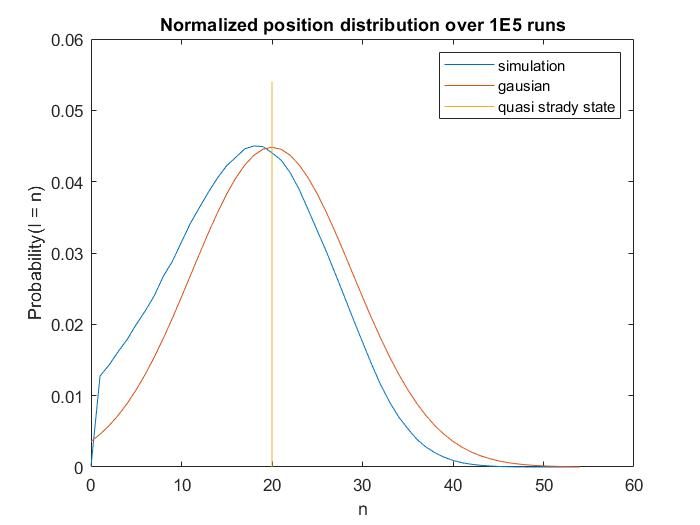
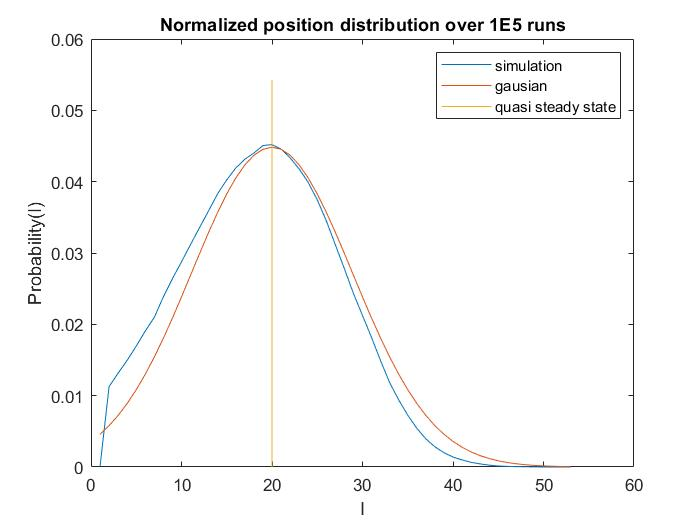
new figs

diff --git a/task31e.m b/task31e.m
@@ -18,16 +18,17 @@ for i = 1:nrRuns
     end 
 end
 
-xVec = 0:numel(distr)-1; 
-gausDistr = normpdf(xVec,qss,8.9);
 distr = distr/sum(distr); 
+
+xVec = 1:numel(distr); 
+gausDistr = normpdf(xVec,qss,8.9);
 plot(xVec,distr); 
 hold on 
 plot(xVec,gausDistr); 
 hold on
 plot([qss qss],[0 1.2*max(distr)]); 
-legend('simulation','gausian', 'quasi strady state'); 
+legend('simulation','gausian', 'quasi steady state'); 
 title('Normalized position distribution over 1E5 runs');
-xlabel('n');
-ylabel('Probability(I = n)'); 
+xlabel('I');
+ylabel('Probability(I)'); 
 
